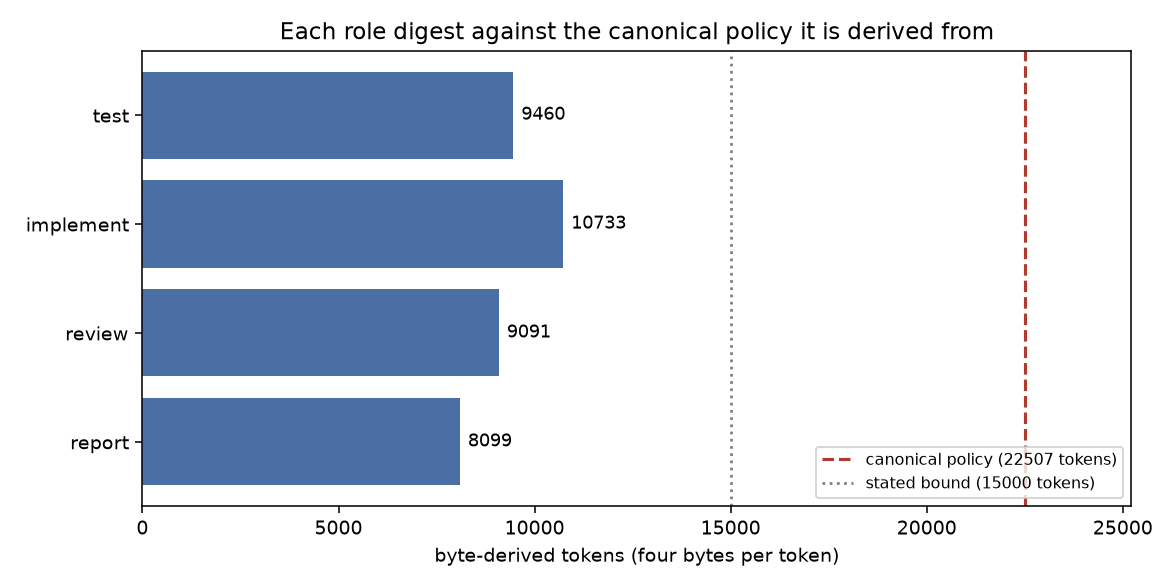
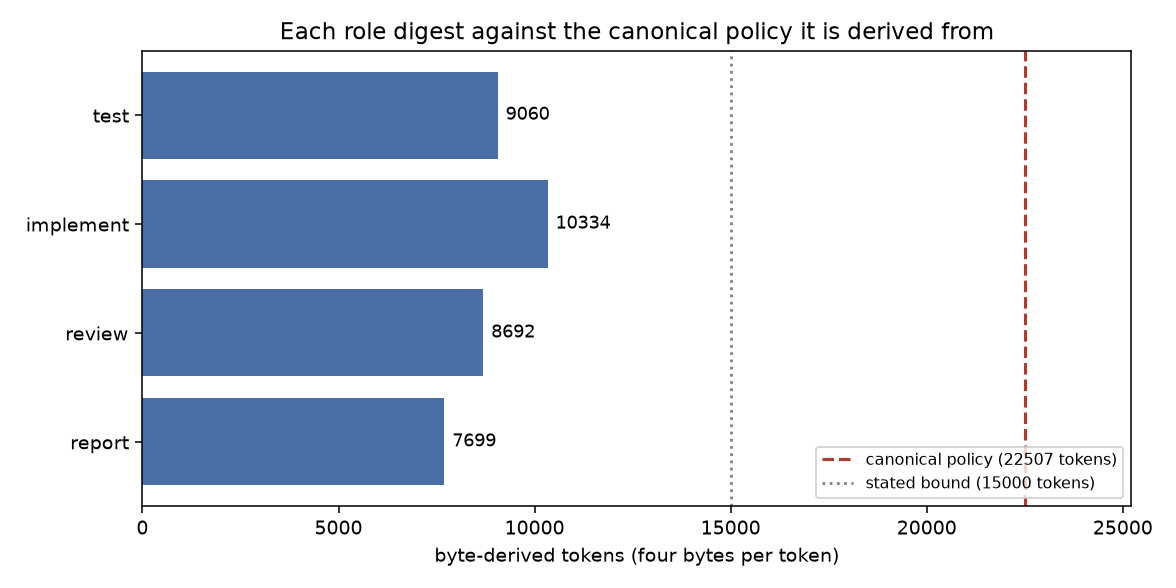
fix(crew): keep only the worker's own duties from the parallel-safety block
The parallel section was retained whole, so every digest carried lines written
for a coordinator in a shared checkout: that the orchestrator owns merges,
pushes and cleanup, the canonical dispatch-contract pointer, the session
audits, and the rule against messaging a worker as a peer session. A worker
dispatches into its own worktree and owns none of those, so the section now
enters the map as an excerpt that re-admits only what binds a worker: one
worktree and one write scope, commit locally and never push or merge, and write
the manifest to the named file. The coordinator-only markers join the
forbidden-content guard, so generation refuses a digest that carries them, and
a case restores the whole block to prove the guard reddens.

The plan's landing record and the evidence record now state the current digest
sizes and pass count, and the size figure is regenerated from them.

diff --git a/docs/evidence/archive/the-local-lane-is-the-default-landed.html b/docs/evidence/archive/the-local-lane-is-the-default-landed.html
@@ -812,15 +812,15 @@ FAILED tests/test_paid_lanes_timer.py::test_unchanged_definition_writes_nothing_
       <caption>Digest size against the canonical policy, byte-derived tokens (four bytes per token).</caption>
       <thead><tr><th>Role</th><th>Bytes</th><th>Tokens</th><th>Versus canonical (22,507)</th></tr></thead>
       <tbody>
-        <tr><td><code>report</code></td><td>32,394</td><td>8,099</td><td>64% smaller</td></tr>
-        <tr><td><code>review</code></td><td>36,363</td><td>9,091</td><td>60% smaller</td></tr>
-        <tr><td><code>implement</code></td><td>42,931</td><td>10,733</td><td>52% smaller</td></tr>
-        <tr><td><code>test</code></td><td>37,837</td><td>9,460</td><td>58% smaller</td></tr>
+        <tr><td><code>report</code></td><td>30,796</td><td>7,699</td><td>66% smaller</td></tr>
+        <tr><td><code>review</code></td><td>34,765</td><td>8,692</td><td>61% smaller</td></tr>
+        <tr><td><code>implement</code></td><td>41,333</td><td>10,334</td><td>54% smaller</td></tr>
+        <tr><td><code>test</code></td><td>36,239</td><td>9,060</td><td>60% smaller</td></tr>
       </tbody>
     </table>
 
     <figure>
-      <img src="/reckon/figures/the-local-lane-is-the-default/digest-sizes.png" alt="Four horizontal bars, one per role, each well under half the height of the dashed line marking the canonical 22,507-token policy: report 8,099 tokens, review 9,091, implement 10,733 and test 9,460, all far below the dotted line marking the 15,000-token bound.">
+      <img src="/reckon/figures/the-local-lane-is-the-default/digest-sizes.png" alt="Four horizontal bars, one per role, each well under half the height of the dashed line marking the canonical 22,507-token policy: report 7,699 tokens, review 8,692, implement 10,334 and test 9,060, all far below the dotted line marking the 15,000-token bound.">
       <figcaption>Every role keeps well over half the policy's cost off the first request,
       and the two roles that write no source save the most.</figcaption>
     </figure>
@@ -833,14 +833,22 @@ FAILED tests/test_paid_lanes_timer.py::test_unchanged_definition_writes_nothing_
     <code>implement</code> role alone lacked the <em>Test Visibility</em> block. And the
     gate proved marker strings present without a per-role heading case or a case forbidding
     coordinator content, so neither defect reddened a case. The map now withholds the
-    coordinator-only blocks and re-admits the worker-binding lines from four excerpts
+    coordinator-only blocks and re-admits the worker-binding lines from five excerpts
     (<code>EXCERPTS</code>): the ban table, the commit-message and authorship rules, the
-    check-only hook policy, and the worktree rule. <code>FORBIDDEN_CONTENT</code> names the
+    check-only hook policy, the worktree rule, and the worker's own worktree and manifest
+    duties. <code>FORBIDDEN_CONTENT</code> names the
     withheld delivery instructions (<em>Always commit and push</em>, <em>Always commit to
-    the project's primary branch</em>), <code>missing_headings</code> names a role's own
+    the project's primary branch</em>, and the coordinator's own lines from the parallel
+    section: <em>The orchestrator owns merges, pushes, plan/index state, and cleanup</em>,
+    the canonical dispatch-contract pointer, the session audits, and the
+    never-message-a-worker rule), <code>missing_headings</code> names a role's own
     blocks, and <code>check_rules</code>, <code>check_headings</code> and
     <code>check_bound</code> all run at generation, so a map edit that re-admits the whole
-    policy is refused when it is generated rather than discovered at launch.</p>
+    policy is refused when it is generated rather than discovered at launch. A second
+    review found the parallel section's coordinator lines still retained whole; it is now
+    a fifth excerpt that keeps only the worker's own duties — one worktree and one write
+    scope, commit locally and never push or merge, and write the manifest to the named
+    file.</p>
 
     <p><strong>The negative control.</strong> The declared mutation is
     <em>drop the git-safety block from the section map; the git-safety marker assertion
@@ -853,17 +861,19 @@ FAILED tests/test_paid_lanes_timer.py::test_unchanged_definition_writes_nothing_
     assertion is ordered first so the failure a reader sees is the one the mutation
     names.</p>
 
-    <p>Two further arms cover the repair. The declared mutation is <em>restore the whole
+    <p>Three further arms cover the repairs. The declared mutation is <em>restore the whole
     Commit Discipline chunk to the shared map; the no-coordinator-content case must fail
     naming 'Always commit and push'</em>: the arm adds that header back to every role's
     map, and the coordinator case fails with the marker named, exactly as the review
-    required. The third arm drops the <em>Test Visibility</em> block from the
-    <code>implement</code> map, and the per-role heading case fails naming
-    <code>## Test Visibility</code>. All three arms redden as declared.
+    required. The second arm restores the whole <em>Parallel Agent Safety</em> block to
+    every role's map in place of its excerpt, and the coordinator case fails naming
+    <em>The orchestrator owns merges</em>. The third arm drops the <em>Test
+    Visibility</em> block from the <code>implement</code> map, and the per-role heading
+    case fails naming <code>## Test Visibility</code>. All four arms redden as declared.
     Log: <code>negative_control_repair.log</code>.</p>
 
     <p><strong>The gate.</strong> <code>tests/test_worker_digest.py</code> passes
-    <code>20</code> cases. They assert the floor against a synthesised policy (portable to
+    <code>22</code> cases. They assert the floor against a synthesised policy (portable to
     any host) and against the canonical file, assert each role's own headings and the
     absence of coordinator content, assert order, determinism, the token bound, that a
     digest is smaller than its source, that regeneration writes only under the named

diff --git a/docs/plans/the-local-lane-is-the-default.html b/docs/plans/the-local-lane-is-the-default.html
@@ -242,7 +242,7 @@
     build time with one project using it, and the reference files hold the detail the core
     points to.</p>
 
-    <p><strong>Landed (2026-09-25, digest generator):</strong> <code>reckon/crew/worker_digest.py</code> derives one file per role from the canonical policy through an explicit section map, and the generated digests are committed under <code>reckon/crew/digests/</code>. The map names the canonical blocks a role keeps, by header text, and blocks are emitted in canonical order so generation is byte-identical across runs. A floor of rules binds all four roles — git safety, the commit and delivery rules (explicit-path staging, a commit body, no AI attribution), the naming checks, test execution, the environment rules and the worker manifest contract — each backed by a marker taken verbatim from the canonical file, with <code>check_rules</code> refusing a digest that misses one. Each digest is under the stated 15,000-token bound and below the 22,507-token source: report ~10,128, review ~11,120, test ~11,489, implement ~12,537, sized in <a href="/reckon/figures/the-local-lane-is-the-default/digest-sizes.png">the size figure</a> and tabulated in the cumulative evidence record. <strong>Done when</strong> is met for the generator: <code>tests/test_worker_digest.py</code> (15 passed) asserts each role digest carries every required rule by stable marker, stays under the bound, and regenerates byte-identically; the declared negative control drops the git-safety block from the map and the git-safety marker assertion fails; and the crew test files add no failure against base. What loads the digest is still open: the dispatch option that passes the digest, MCP config and tool set, the launch-flag expansion, and the per-role qualification run.</p>
+    <p><strong>Landed (2026-09-25, digest generator):</strong> <code>reckon/crew/worker_digest.py</code> derives one file per role from the canonical policy through an explicit section map, and the generated digests are committed under <code>reckon/crew/digests/</code>. The map names the canonical blocks a role keeps, by header text, and blocks are emitted in canonical order so generation is byte-identical across runs. A floor of rules binds all four roles — git safety, the commit and delivery rules (explicit-path staging, a commit body, no AI attribution), the naming checks, test execution, the environment rules and the worker manifest contract — each backed by a marker taken verbatim from the canonical file, with <code>check_rules</code> refusing a digest that misses one. Each digest is under the stated 15,000-token bound and below the 22,507-token source: report ~7,699, review ~8,692, test ~9,060, implement ~10,334, sized in <a href="/reckon/figures/the-local-lane-is-the-default/digest-sizes.png">the size figure</a> and tabulated in the cumulative evidence record. <strong>Done when</strong> is met for the generator: <code>tests/test_worker_digest.py</code> (22 passed) asserts each role digest carries every required rule by stable marker and every block its role requires, carries no coordinator-only delivery text, stays under the bound, and regenerates byte-identically; the declared negative controls drop the git-safety block (the marker assertion fails), restore the whole parallel-safety and commit-discipline blocks (the coordinator-content case fails), and drop Test Visibility from the implement role; and the crew test files add no failure against base. What loads the digest is still open: the dispatch option that passes the digest, MCP config and tool set, the launch-flag expansion, and the per-role qualification run.</p>
 
     <h2 id="s10">&sect;10 &mdash; Known red baseline</h2>
     <p>At <code>2c0ffa90</code>, the 77 test files the rename touched show 77 failures that pre-date

diff --git a/reckon/crew/worker_digest.py b/reckon/crew/worker_digest.py
@@ -18,8 +18,9 @@ A worker dispatches into its own worktree, commits locally, never pushes and
 never picks a branch, so those blocks are withheld, and where only part of a
 block is coordinator-only the whole block is withheld and the worker-binding
 lines are re-admitted from :data:`EXCERPTS` — the commit-message rules, the
-banned commands, the hook policy, and the worktree rule. A digest then states
-the worker's delivery authority once, not twice.
+banned commands, the hook policy, the worktree rule, and the worker's own
+worktree and manifest duties. A digest then states the worker's delivery
+authority once, not twice.
 
 A floor of rules binds every role, because a launch without them is not safe
 at any size: git safety, the commit and delivery rules (explicit-path
@@ -165,6 +166,24 @@ EXCERPTS: dict[str, Excerpt] = {
             ),
         ),
     ),
+    "worker-parallel-safety": Excerpt(
+        header="## Parallel Agent Safety",
+        note="the worker's own worktree and delivery duties, without the coordinator's",
+        spans=(
+            (
+                "- One worker, one worktree, one exclusive write scope.",
+                "`git show --stat` against the declared scope.",
+            ),
+            (
+                "- Workers commit locally (conventional subject AND a body), never push the",
+                "primary branch, never merge/rebase/stash, and stage explicit paths only.",
+            ),
+            (
+                "- Durable delivery: every worker writes its manifest to an",
+                "orchestrator-named file; the reply is a convenience, the file is the",
+            ),
+        ),
+    ),
 }
 
 # Blocks shared by every role: git safety and its worker commit and delivery
@@ -178,7 +197,7 @@ _GIT_SAFETY = (
     "worktree-isolation",
 )
 _WORKER_MANIFEST = (
-    "## Parallel Agent Safety",
+    "worker-parallel-safety",
     "### A Worker That Invents Its Own Manifest Status Slips The Review Guard",
     "## A Worker's Process Ends With Its Turn",
 )
@@ -279,11 +298,25 @@ REQUIRED_RULES: tuple[tuple[str, str], ...] = (
 )
 
 # Coordinator-only delivery instructions. A worker commits locally and never
-# pushes or picks a branch, so a digest carrying one of these contradicts the
-# worker contract the manifest section states.
+# pushes, never picks a branch, and never owns a merge, a plan edit or a
+# session audit, so a digest carrying one of these contradicts the worker
+# contract the manifest section states.
 FORBIDDEN_CONTENT: tuple[tuple[str, str], ...] = (
     ("push-on-commit", "Always commit and push"),
     ("branch-policy", "Always commit to the project's primary branch"),
+    (
+        "orchestrator-owns-cleanup",
+        "The orchestrator owns merges, pushes, plan/index state, and cleanup.",
+    ),
+    (
+        "dispatch-contract-pointer",
+        "The canonical dispatch contract (embed it verbatim in worker prompts)",
+    ),
+    ("session-audits", "Session audits: `git stash list` at start"),
+    (
+        "message-a-worker",
+        "Never message a CLI-launched worker as a peer session.",
+    ),
 )
 
 # The marker the declared negative control pins: dropping the git-safety block

diff --git a/tests/test_worker_digest.py b/tests/test_worker_digest.py
@@ -216,6 +216,39 @@ def test_restoring_the_whole_commit_discipline_block_fails_the_coordinator_case(
         assert_no_coordinator_content("report", digest)
 
 
+def test_restoring_the_whole_parallel_safety_block_fails_the_coordinator_case():
+    policy = _synthetic_policy()
+    plain = wd.generate("report", policy)
+
+    assert_no_coordinator_content("report", plain)
+
+    mutated = {
+        role: tuple(
+            "## Parallel Agent Safety" if key == "worker-parallel-safety" else key
+            for key in keys
+        )
+        for role, keys in wd.SECTION_MAP.items()
+    }
+    digest = wd.generate("report", policy, section_map=mutated)
+
+    assert "The orchestrator owns merges" in digest
+    assert "Never message a CLI-launched worker as a peer session." in digest
+    with pytest.raises(wd.CoordinatorContentError, match="orchestrator owns merges"):
+        wd.check_rules("report", digest)
+    with pytest.raises(AssertionError, match="orchestrator owns merges"):
+        assert_no_coordinator_content("report", digest)
+
+
+def test_the_parallel_safety_excerpt_keeps_the_worker_duties():
+    policy = _synthetic_policy()
+
+    for role in wd.ROLES:
+        digest = wd.generate(role, policy)
+        assert "one exclusive write scope" in digest
+        assert "never push the" in digest
+        assert "Durable delivery" in digest
+
+
 def _committed_digest_hashes() -> dict[str, str]:
     return {
         path.name: hashlib.sha256(

diff --git a/reckon/crew/digests/implement.md b/reckon/crew/digests/implement.md
@@ -233,11 +233,6 @@ where a flagged hit is CORRECT and must be kept:
 false positive.
 ## Parallel Agent Safety
 
-Every background worker gets its own detached worktree
-(`worktree_fleet.py` creates and conservatively cleans them); worktree
-isolation now carries most of the burden the shared-checkout fleet rules
-existed for. What remains binding:
-
 - One worker, one worktree, one exclusive write scope. No two concurrent
   workers write the same file even across worktrees — merging is the
   orchestrator's job, sequentially, after auditing each manifest and
@@ -246,28 +241,6 @@ existed for. What remains binding:
   primary branch, never merge/rebase/stash, and stage explicit paths only.
 - Durable delivery: every worker writes its manifest to an
   orchestrator-named file; the reply is a convenience, the file is the
-  delivery. Recovery order on a silent worker: manifest file → on-disk
-  logs → `reckon crew resume --run <id> --advice "<answer>"` → only then
-  redispatch.
-- **Never message a CLI-launched worker as a peer session.** It is listed
-  as `interactive` and the send returns success, and it has delivered
-  nothing in 3,949 worker streams on this workstation — against a positive
-  control of 11,939 deliveries in 244 interactive transcripts. The
-  recipient is a headless `-p` process with no user, so the approval its
-  permission mode requires can never be given and the message expires
-  silently. Resume answers a worker whose turn has ended; a worker still
-  mid-turn has no channel at all, so plan the node rather than expect to
-  steer it. Rationale and measurement:
-  `~/Code/reckon/docs/research/messages-to-workers-never-arrive.html`.
-- The orchestrator owns merges, pushes, plan/index state, and cleanup.
-  Cleanup never forces — a refused removal is a visible blocker with a
-  recoverable path.
-- The canonical dispatch contract (embed it verbatim in worker prompts)
-  lives in `~/.claude/skills/reckon-build/references/sprint-orchestration.md`
-  §6; do not restate plan content in prompts.
-- Session audits: `git stash list` at start (stashes are user-owned);
-  `git worktree list` before ending — no orphaned session trees left
-  behind.
 ### A Worker That Invents Its Own Manifest Status Slips The Review Guard
 
 **A manifest whose `status:` is outside the recognised set classifies as nothing, and a

diff --git a/reckon/crew/digests/report.md b/reckon/crew/digests/report.md
@@ -250,11 +250,6 @@ where a flagged hit is CORRECT and must be kept:
 false positive.
 ## Parallel Agent Safety
 
-Every background worker gets its own detached worktree
-(`worktree_fleet.py` creates and conservatively cleans them); worktree
-isolation now carries most of the burden the shared-checkout fleet rules
-existed for. What remains binding:
-
 - One worker, one worktree, one exclusive write scope. No two concurrent
   workers write the same file even across worktrees — merging is the
   orchestrator's job, sequentially, after auditing each manifest and
@@ -263,28 +258,6 @@ existed for. What remains binding:
   primary branch, never merge/rebase/stash, and stage explicit paths only.
 - Durable delivery: every worker writes its manifest to an
   orchestrator-named file; the reply is a convenience, the file is the
-  delivery. Recovery order on a silent worker: manifest file → on-disk
-  logs → `reckon crew resume --run <id> --advice "<answer>"` → only then
-  redispatch.
-- **Never message a CLI-launched worker as a peer session.** It is listed
-  as `interactive` and the send returns success, and it has delivered
-  nothing in 3,949 worker streams on this workstation — against a positive
-  control of 11,939 deliveries in 244 interactive transcripts. The
-  recipient is a headless `-p` process with no user, so the approval its
-  permission mode requires can never be given and the message expires
-  silently. Resume answers a worker whose turn has ended; a worker still
-  mid-turn has no channel at all, so plan the node rather than expect to
-  steer it. Rationale and measurement:
-  `~/Code/reckon/docs/research/messages-to-workers-never-arrive.html`.
-- The orchestrator owns merges, pushes, plan/index state, and cleanup.
-  Cleanup never forces — a refused removal is a visible blocker with a
-  recoverable path.
-- The canonical dispatch contract (embed it verbatim in worker prompts)
-  lives in `~/.claude/skills/reckon-build/references/sprint-orchestration.md`
-  §6; do not restate plan content in prompts.
-- Session audits: `git stash list` at start (stashes are user-owned);
-  `git worktree list` before ending — no orphaned session trees left
-  behind.
 ### A Worker That Invents Its Own Manifest Status Slips The Review Guard
 
 **A manifest whose `status:` is outside the recognised set classifies as nothing, and a

diff --git a/reckon/crew/digests/review.md b/reckon/crew/digests/review.md
@@ -229,11 +229,6 @@ where a flagged hit is CORRECT and must be kept:
 false positive.
 ## Parallel Agent Safety
 
-Every background worker gets its own detached worktree
-(`worktree_fleet.py` creates and conservatively cleans them); worktree
-isolation now carries most of the burden the shared-checkout fleet rules
-existed for. What remains binding:
-
 - One worker, one worktree, one exclusive write scope. No two concurrent
   workers write the same file even across worktrees — merging is the
   orchestrator's job, sequentially, after auditing each manifest and
@@ -242,28 +237,6 @@ existed for. What remains binding:
   primary branch, never merge/rebase/stash, and stage explicit paths only.
 - Durable delivery: every worker writes its manifest to an
   orchestrator-named file; the reply is a convenience, the file is the
-  delivery. Recovery order on a silent worker: manifest file → on-disk
-  logs → `reckon crew resume --run <id> --advice "<answer>"` → only then
-  redispatch.
-- **Never message a CLI-launched worker as a peer session.** It is listed
-  as `interactive` and the send returns success, and it has delivered
-  nothing in 3,949 worker streams on this workstation — against a positive
-  control of 11,939 deliveries in 244 interactive transcripts. The
-  recipient is a headless `-p` process with no user, so the approval its
-  permission mode requires can never be given and the message expires
-  silently. Resume answers a worker whose turn has ended; a worker still
-  mid-turn has no channel at all, so plan the node rather than expect to
-  steer it. Rationale and measurement:
-  `~/Code/reckon/docs/research/messages-to-workers-never-arrive.html`.
-- The orchestrator owns merges, pushes, plan/index state, and cleanup.
-  Cleanup never forces — a refused removal is a visible blocker with a
-  recoverable path.
-- The canonical dispatch contract (embed it verbatim in worker prompts)
-  lives in `~/.claude/skills/reckon-build/references/sprint-orchestration.md`
-  §6; do not restate plan content in prompts.
-- Session audits: `git stash list` at start (stashes are user-owned);
-  `git worktree list` before ending — no orphaned session trees left
-  behind.
 ### A Worker That Invents Its Own Manifest Status Slips The Review Guard
 
 **A manifest whose `status:` is outside the recognised set classifies as nothing, and a

diff --git a/reckon/crew/digests/test.md b/reckon/crew/digests/test.md
@@ -230,11 +230,6 @@ where a flagged hit is CORRECT and must be kept:
 false positive.
 ## Parallel Agent Safety
 
-Every background worker gets its own detached worktree
-(`worktree_fleet.py` creates and conservatively cleans them); worktree
-isolation now carries most of the burden the shared-checkout fleet rules
-existed for. What remains binding:
-
 - One worker, one worktree, one exclusive write scope. No two concurrent
   workers write the same file even across worktrees — merging is the
   orchestrator's job, sequentially, after auditing each manifest and
@@ -243,28 +238,6 @@ existed for. What remains binding:
   primary branch, never merge/rebase/stash, and stage explicit paths only.
 - Durable delivery: every worker writes its manifest to an
   orchestrator-named file; the reply is a convenience, the file is the
-  delivery. Recovery order on a silent worker: manifest file → on-disk
-  logs → `reckon crew resume --run <id> --advice "<answer>"` → only then
-  redispatch.
-- **Never message a CLI-launched worker as a peer session.** It is listed
-  as `interactive` and the send returns success, and it has delivered
-  nothing in 3,949 worker streams on this workstation — against a positive
-  control of 11,939 deliveries in 244 interactive transcripts. The
-  recipient is a headless `-p` process with no user, so the approval its
-  permission mode requires can never be given and the message expires
-  silently. Resume answers a worker whose turn has ended; a worker still
-  mid-turn has no channel at all, so plan the node rather than expect to
-  steer it. Rationale and measurement:
-  `~/Code/reckon/docs/research/messages-to-workers-never-arrive.html`.
-- The orchestrator owns merges, pushes, plan/index state, and cleanup.
-  Cleanup never forces — a refused removal is a visible blocker with a
-  recoverable path.
-- The canonical dispatch contract (embed it verbatim in worker prompts)
-  lives in `~/.claude/skills/reckon-build/references/sprint-orchestration.md`
-  §6; do not restate plan content in prompts.
-- Session audits: `git stash list` at start (stashes are user-owned);
-  `git worktree list` before ending — no orphaned session trees left
-  behind.
 ### A Worker That Invents Its Own Manifest Status Slips The Review Guard
 
 **A manifest whose `status:` is outside the recognised set classifies as nothing, and a
